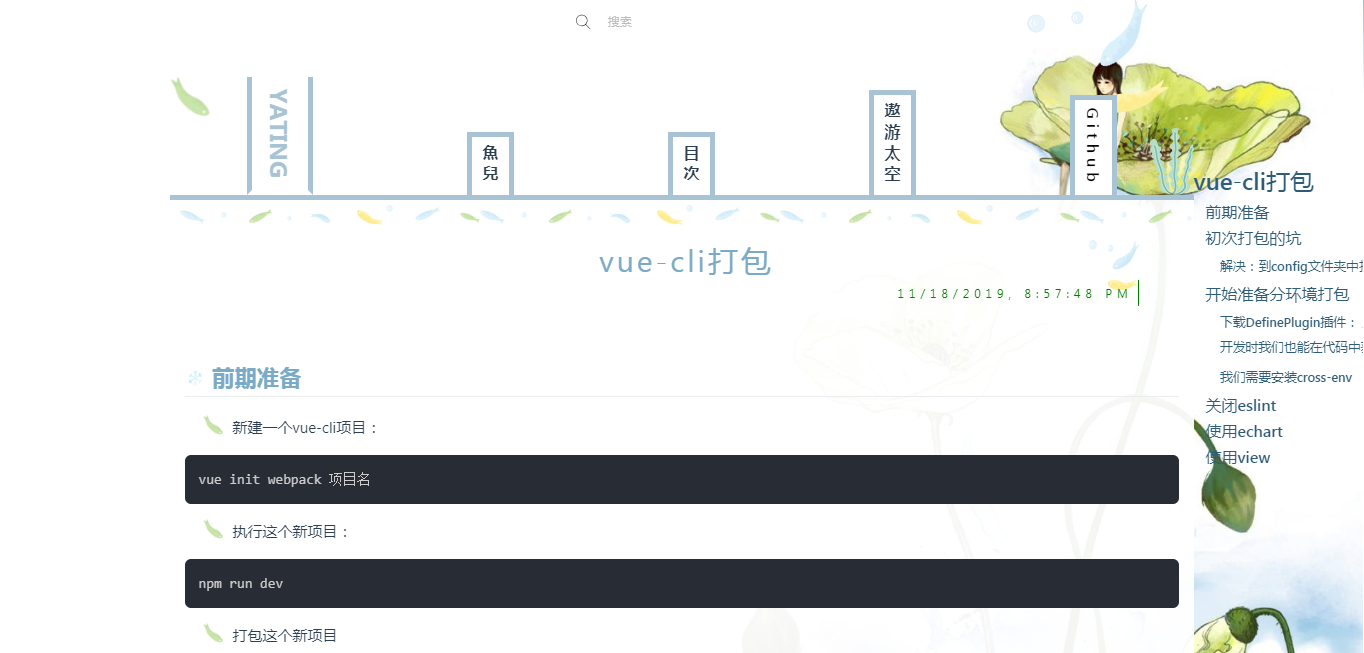
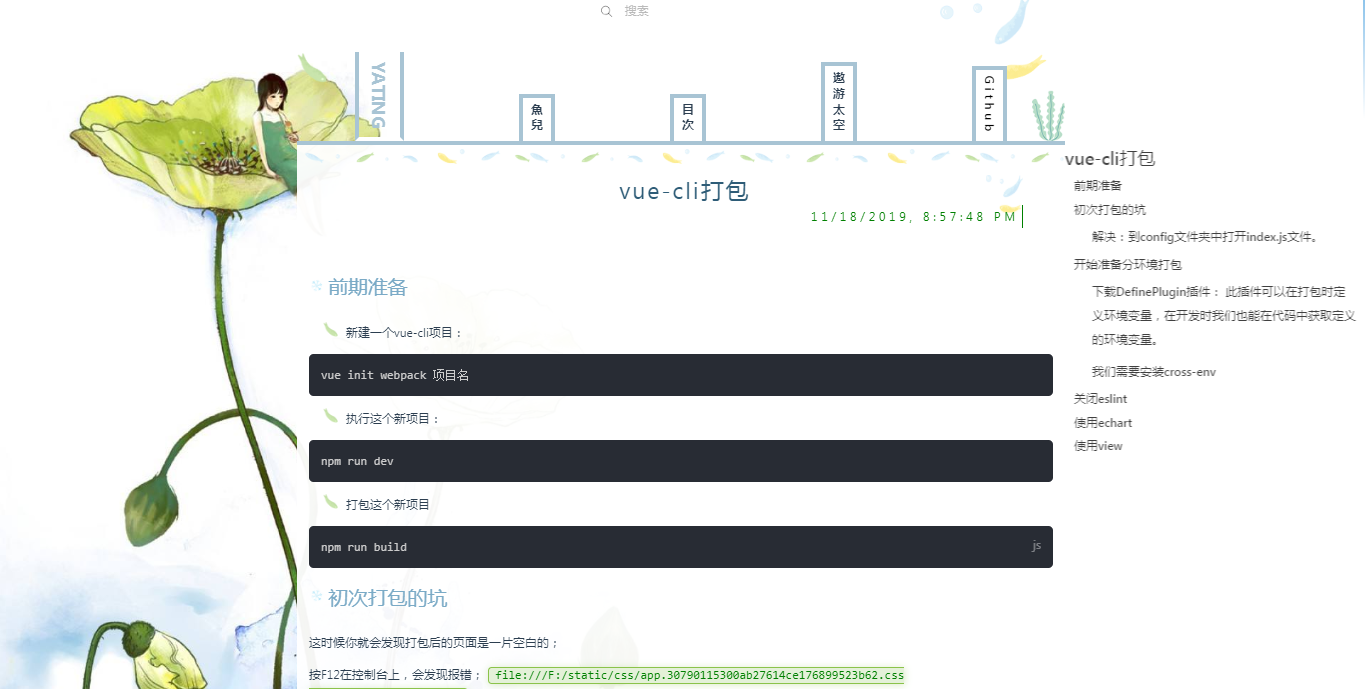
修改布局

diff --git a/.vuepress/theme/layouts/catalog.vue b/.vuepress/theme/layouts/catalog.vue
@@ -1,16 +1,11 @@
 <template>
-    <div>
-        <div class="select-box">
+    <div class="catalog-box">
+        <div class="select-box-top">
             <div class="select-tip">类别:</div>
-                <div :class="nowTag=='all'?'select-type':'type-catalog'" @click="changeType('all')" >全部</div>
-                <div :class="nowTag==item?'select-type':'type-catalog'"  @click="changeType(item)"  v-for="item in tagList" :key="item">{{item}}</div>
+            <div :class="nowTag=='all'?'select-type':'type-catalog'" @click="changeType('all')" >全部</div>
+            <div :class="nowTag==item?'select-type':'type-catalog'"  @click="changeType(item)"  v-for="item in tagList" :key="item">{{item}}</div>
         </div>
         <div class="catalog-big">
-            <div class="page-box">
-                <div @click="choosePage(item-1)" class="page-item" :class="{'page-select':pageId==item-1}"
-                     v-for="item in pageNum">{{item}}
-                </div>
-            </div>
             <div class="catalog-box">
                 <div class="catalog-item-big" @click="goArticle(item.path)" v-if="item"
                      v-for="(item,index) in list"
@@ -21,10 +16,17 @@
                             {{item.tag }}
                         </div>
                         <!-- 标题 -->
-                        <div>
+                        <div class="title-box">
                             <div class="title">{{item.title?item.title:'未命名'}}</div>
                             <div class="tag"> {{item.lastUpdated?item.lastUpdated:item.title}}</div>
                         </div>
+                    </div>
+                </div>
+            </div>
+            <div class="page-box">
+                <div class="page">
+                    <div @click="choosePage(item-1)" class="page-item" :class="{'page-select':pageId==item-1}"
+                        v-for="item in pageNum">{{item}}
                     </div>
                 </div>
             </div>
@@ -109,7 +111,7 @@
     }
 </script>
 <style lang="stylus" scoped>
-    .select-box {
+    .select-box-top {
         display flex;
         flex-wrap wrap;
         align-items center;
@@ -137,7 +139,11 @@
             cursor: pointer;
         }
     }
-
+    .title-box{
+        display flex;
+        flex-direction column;
+        justify-content:center;
+    }
     .tag {
         width 100%;
         color green;
@@ -166,22 +172,20 @@
     .catalog-big {
         display flex;
         align-items flex-start;
+        justify-content space-between;
         max-width 1024px;
-        margin 0 auto;
     }
 
-    .page-box {
-        padding-top 4%;
+    .page {
+        // position fixed; 
+        padding-top 2%;
         padding-left 5px;
         display flex;
         flex-direction column;
         justify-content flex-end;
         flex-wrap wrap;
-        flex-flow 1
-
         .page-item {
             width 30px;
-            height 30px;
             background #c3dae4;
             text-align center;
             line-height 30px;
@@ -247,7 +251,7 @@
     .catalog-item-big {
         height: auto;
         margin: 2%;
-        box-shadow: 0px 0px 10px #ececec;
+        box-shadow: 0px 0px 5px #ececec;
         padding: 2%;
         background white;
         flex-grow 1;

diff --git a/.vuepress/theme/components/tingContent.vue b/.vuepress/theme/components/tingContent.vue
@@ -137,7 +137,7 @@
             width inherit;
             font-size 30px;
             letter-spacing 3px;
-            color #7aaac6
+            color #2e5c77
             margin-left 10px;
             overflow: hidden; /*超出部分隐藏*/
             text-overflow: ellipsis; /* 超出部分显示省略号 */
@@ -173,7 +173,6 @@
         }
 
         //code
-
         li {
             display flex;
             &:nth-child(2n) {
@@ -196,7 +195,7 @@
                 margin-right 10px;
             }
             img{
-              max-height 500px;
+              max-height 300px;
               width auto;
               margin 0 auto;
             }
@@ -225,10 +224,12 @@
         }
 
         h2, h3, h4 {
+            font-weight: normal;
             display flex;
-            align-items center;
-            color #7aaac6;
-
+            color:#7aaac6;
+            border-bottom: 0px solid #eaecef;
+            padding-bottom 10px;
+            cursor pointer;
             &:before {
                 content: " ";
                 display: block;
@@ -237,11 +238,17 @@
                 background: url("../public/icon/flower.gif") no-repeat;
                 background-size: 100% 100%;
                 margin-right 20px;
+                margin-top 5px;
+            }
+            &:hover{
+                color #2e5c77;
+                text-shadow: 2px 2px 10px #7aaac6;
             }
         }
 
         h1 {
-            color #7aaac6;
+            font-weight: normal;
+            color #2e5c77;
             justify-content center;
             display flex;
             white-space: nowrap;
@@ -276,12 +283,12 @@
     // catalog
     .catalog {
         a{
-            color #2e5c77 !important;
-            margin 5px 0;
+            color rgba(0,0,0,.75);
+            margin 10px 0;
         }
         position fixed;
         margin auto;
-        top 10em;
+        top 12em;
         transform translateX(690px);
         width 400px;
         height 600px;
@@ -329,9 +336,7 @@
     }
 
     .select {
-        color: #88c1ea;
-        font-weight: bold;
-        text-shadow :2px 2px 10px #7aaac6;
+        color: #2b89d4 !important;
 
         &:before {
             content: " ";

diff --git a/.vuepress/theme/layouts/GlobalLayout.vue b/.vuepress/theme/layouts/GlobalLayout.vue
@@ -35,13 +35,14 @@
         position fixed;
         z-index -8;
         background: url("../public/img/bg.jpg");
+        transform: rotateY(180deg) translateX(600px);
         background-size: cover;
         background-position: center;
     }
     .foot{
         text-align: center;
         font-size: 0.8em;
-        margin-bottom: 0.5em;
+        margin: 0.5em;
     }
     #global-layout{
         max-width 1024px;

diff --git a/.vuepress/theme/components/tingUser.vue b/.vuepress/theme/components/tingUser.vue
@@ -13,9 +13,6 @@
             <div>{{item.count}}</div>
         </div>
     </div>
-    <!--        <div class="my-content" v-for="(item,index) in list" :key="index">-->
-    <!--            <div class="">{{item.content}}</div>-->
-    <!--        </div>-->
 </div>
 </template>
 
